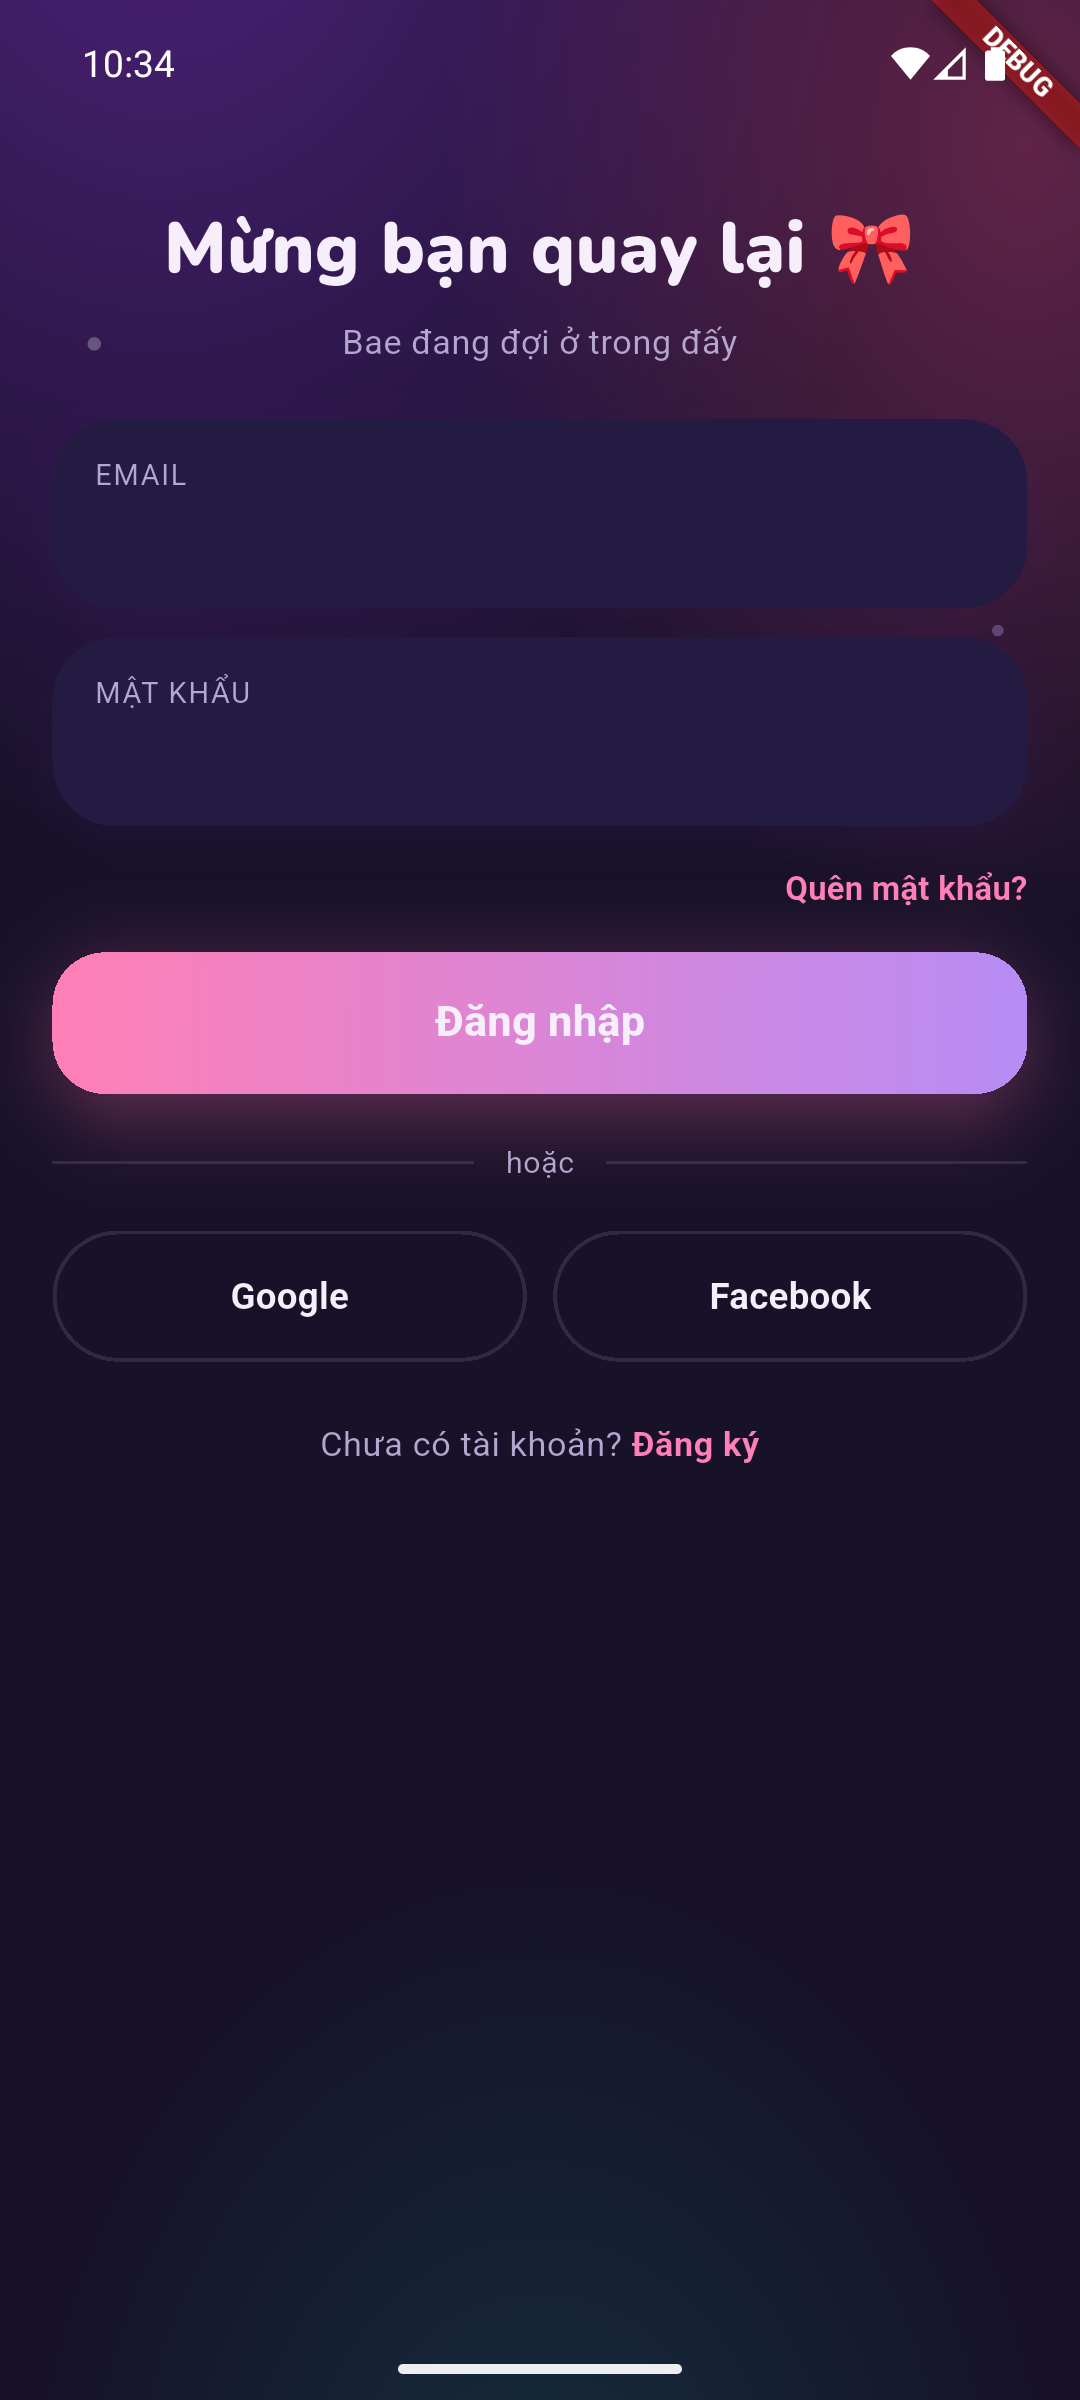
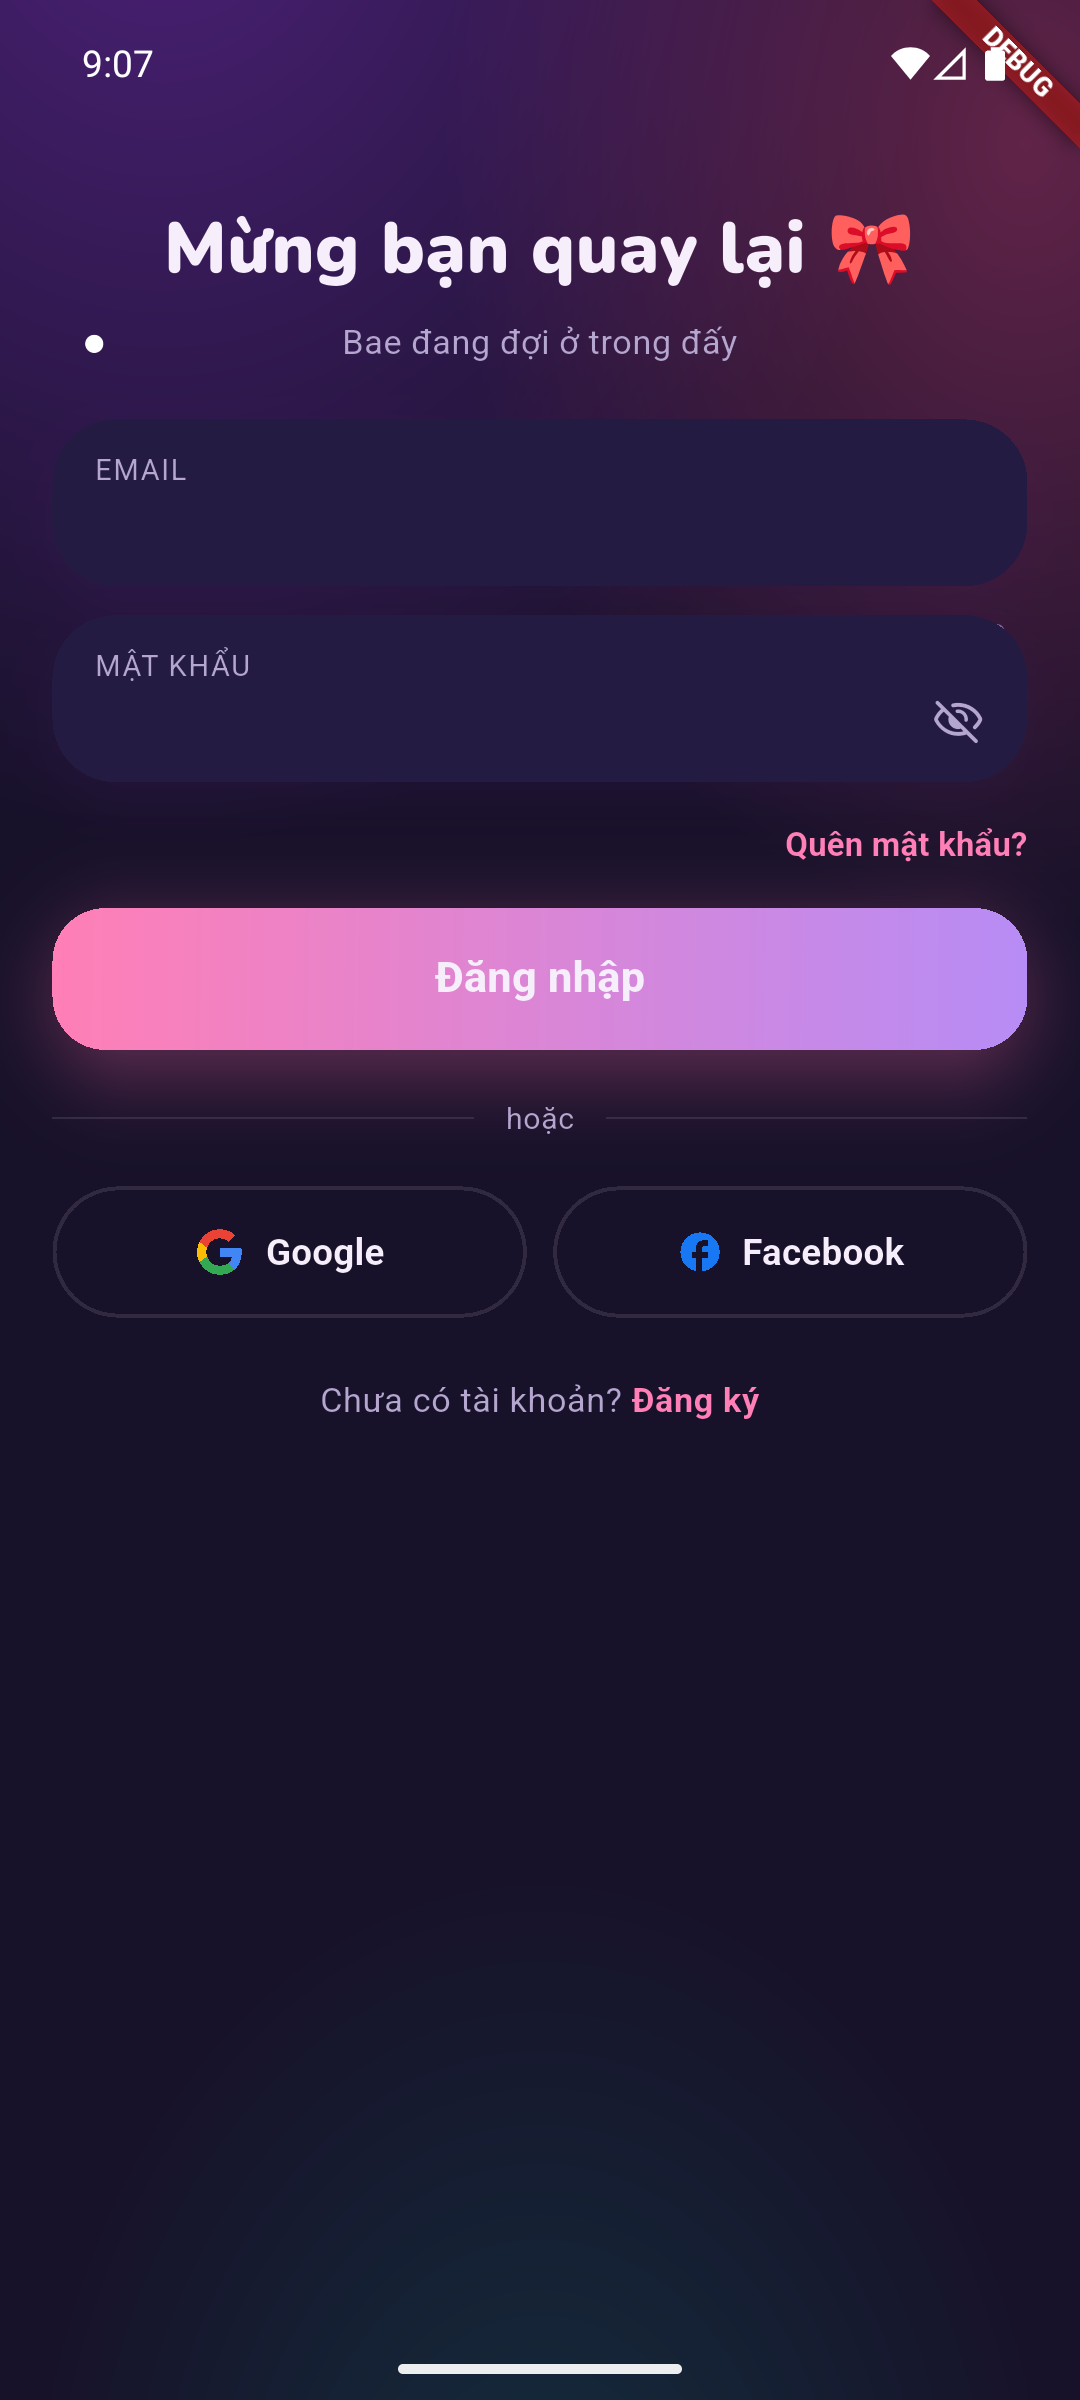
test(REQ-002/STORY-005): capture BF-05 field-state evidence + fresh re-capture
Frank-Devops: rebuilt/reinstalled on emulator-5560, captured empty/focused/
filled/error field states for AC3 plus a fresh full-screen re-capture
confirming BF-02/BF-03/BF-04 render correctly on-device. Design source
authors no focus/error state for this screen; app introduces no unauthored
treatment for either, so no deviation is recorded.

diff --git a/data/requirements/REQ-002_screen_flow_and_design_fidelity_audit/STORY-005_login_design_fidelity/coding-plan/test-results.md b/data/requirements/REQ-002_screen_flow_and_design_fidelity_audit/STORY-005_login_design_fidelity/coding-plan/test-results.md
@@ -169,3 +169,113 @@ Added above as `## Entry Point Reachability`.
   device; the `visual-fidelity/` report is updated by that separate dispatch.
 - **BF-01** (biometric quick-unlock row) — deferred by user decision to a new
   future backlog story.
+
+## Patch Round 3 Re-Capture + Field States
+
+Scope: review finding BF-05 (AC3 field-state runtime evidence) plus a fresh
+full-screen re-capture confirming BF-02/BF-03/BF-04 render correctly, on top
+of the same mobile-dev code patch to `login_screen.dart` and
+`cupid_icons.dart` covered statically above (`## Patch Round 3 — Static +
+Widget Evidence`). Same device (`emulator-5560`) and navigation methodology
+as the original *Android (emulator-5560)* section.
+
+### Rebuild / reinstall / navigate
+
+- Rebuilt: `flutter build apk --debug
+  --dart-define=CUPID_API_BASE_URL=http://10.0.2.2:3000` ->
+  `build/app/outputs/flutter-apk/app-debug.apk` (picks up the
+  `login_screen.dart`/`cupid_icons.dart` patch).
+- Reinstalled on the same reused `emulator-5560` (adb state `device`):
+  `adb -s emulator-5560 install -r ...` -> `Success`.
+- Readiness: same registry probe as before (`am start -W` +
+  `dumpsys activity activities` poll) -> `ResumedActivity` for
+  `com.snapsofts.cupid/com.snapsofts.cupid_mobile.MainActivity` confirmed.
+- Navigation: same `WelcomeScreen -> LoginScreen` path via "Dùng email".
+  `uiautomator dump` located the same content-desc "Dùng email" node at
+  bounds `[53,2088][1028,2224]`, tapped its center (`540,2156`); a second
+  dump confirmed `LoginScreen` content-desc nodes including the new "Hiện
+  mật khẩu" toggle label (absent before this patch round).
+
+### Fresh full-screen re-capture -> `login-android.png` (overwritten)
+
+Confirms all three code fixes render on-device:
+
+- **BF-02**: the password field's trailing slot now shows the
+  `visibility_off` glyph (content-desc "Hiện mật khẩu").
+- **BF-03**: both EMAIL and MẬT KHẨU field cards render at equal, visually
+  matched height — no longer visibly taller than the other. (Precise pixel
+  re-measurement against the design source's 63.6dp is
+  `visual-fidelity-report.md`'s scope; this capture is on-device confirmation
+  only, not a repeat of that measurement.)
+- **BF-04**: both social buttons draw a brand mark before their label —
+  Google's 4-color "G" and Facebook's blue "f" roundel.
+
+### Field states (BF-05, AC3)
+
+Design-source comparison basis: `cupid-app-design-system/project/Cupid
+Screens.dc.html`'s `isLogin` block (lines 1425-1458) is the only
+design-source authority for this screen's field styling. It authors exactly
+one static visual treatment per field card
+(`background:var(--surf)`, `border-radius:var(--r-card)`,
+`box-shadow:var(--shadow)`, borderless `<input>`), pre-filled with
+placeholder values `minh@gmail.com` / `loveyou247`. A full read of that block
+plus a targeted search of the entire file (patterns
+`:focus`, `:invalid`, `border-color`, `--error`, `--danger`, `invalid`,
+`validation`) found no authored `:focus` state, no authored error/invalid
+state, and no `--error`/`--danger` color token anywhere in the design
+source. The file's only `@keyframes shake` (line 32) is unused elsewhere and
+never attached to any field or validation element. So AC3's "focused" and
+"error/validation" states have no authored design-source styling to match —
+fidelity for those two states means the app must not introduce a visual
+treatment (border/background/color change) the design source doesn't
+specify, not that it must reproduce a specific undefined style.
+
+- **Empty** — already covered by the base full-screen capture above
+  (`login-android.png`, captured before any input) and by the original
+  Android runtime smoke section. Card chrome (`--surf` background, `--r-card`
+  radius, `--shadow` elevation, uppercase `--tx2` label) matches the design
+  source exactly; no separate capture needed.
+- **Focused** — `visual-fidelity/raw-capture/login-android-focused.png`.
+  Tapped into the EMAIL field (`uiautomator`-located bounds
+  `[95,503][985,551]`, tap `540,527`). Card background/border/radius/shadow
+  are unchanged from the empty state; no border or outline appears.
+  **Matches design source**: it authors no `:focus` style, and
+  `login_screen.dart`'s `InputDecoration(border: InputBorder.none, ...)`
+  also suppresses Flutter's default Material focus underline, so the app
+  correctly introduces no unauthored focus treatment. (The soft keyboard did
+  not render in the emulator's `screencap` output — a known emulator/adb
+  `screencap` limitation, not part of the app UI under audit — but the
+  field-card chrome above the keyboard line is fully visible and
+  unobstructed in this capture.)
+- **Filled** — `visual-fidelity/raw-capture/login-android-filled.png`. Typed
+  `minh@gmail.com` into EMAIL and `loveyou247` into MẬT KHẨU
+  (`adb shell input text`) — the exact placeholder values the design source
+  itself authors in its `<input value=...>` attributes. Rendered text
+  color/weight/size and card chrome match the design source's filled
+  treatment (same card, same borderless input, same uppercase label above);
+  password glyphs render as bullets, consistent with `obscureText`.
+  **Matches design source.**
+- **Error/validation** —
+  `visual-fidelity/raw-capture/login-android-error.png`. Tapped "Đăng nhập"
+  with the filled (intentionally wrong) credentials against the live,
+  already-reachable `backend-api`. `SignInCubit` transitioned to
+  `SignInFailed`, and `login_screen.dart`'s `errorText != null` branch
+  rendered "Email hoặc mật khẩu không đúng" in `colors.colorRed` below the
+  two field cards (confirmed via both `uiautomator dump` content-desc and
+  the capture). The field cards themselves keep their unchanged chrome — no
+  red border or background shift on either card. **No design-source
+  deviation to record**: since the design source authors no error/validation
+  state at all for this screen, there is nothing for the app's error text to
+  deviate from; the app's addition renders through the shared `colorRed`
+  design token (not a hand-picked literal), so it stays inside token
+  discipline even though the state itself is a build-only addition beyond
+  the static mock.
+
+### Shutdown
+
+`adb -s emulator-5560 shell am force-stop com.snapsofts.cupid` -> exit 0.
+
+**Result: PASS** — BF-05 field-state runtime evidence captured for all four
+AC3 states (empty, focused, filled, error/validation); BF-02/BF-03/BF-04
+confirmed rendering correctly on-device via the fresh full-screen
+re-capture.
